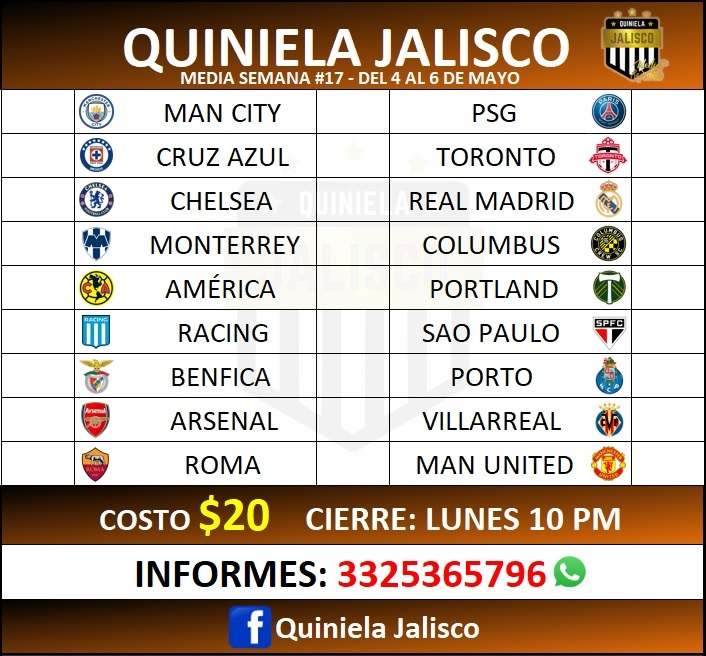
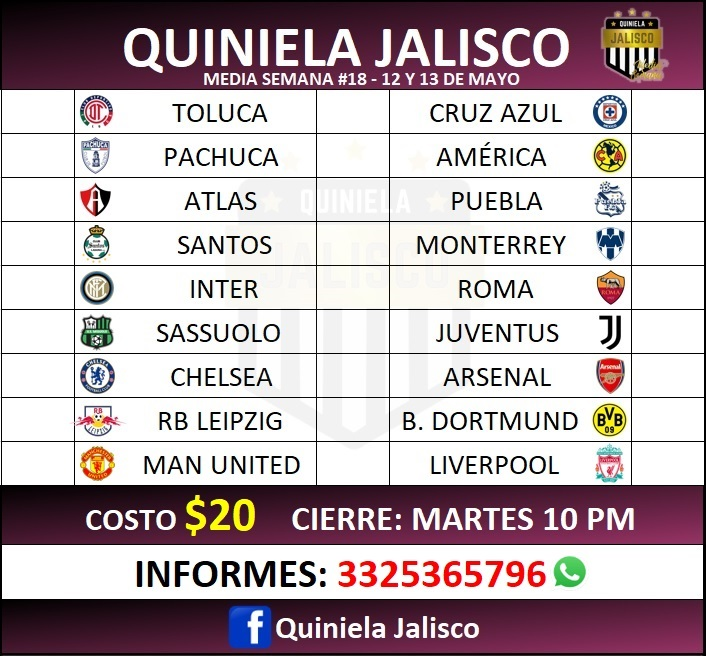
Media Semana #18

diff --git a/MediaSemana/stylesm.css b/MediaSemana/stylesm.css
@@ -85,12 +85,12 @@ h1{
     background-color: teal;
     text-align: center;
     padding: 18px;
-    color: rgb(255,255,22);
+    color: rgb(255,200,65);
     margin-top: 8%;
     border: solid 1px black;
     border-radius: 0 0 14px 14px;
-    background: -webkit-linear-gradient(0.04turn, rgb(0,0,0)  ,rgb(210,100,0) 80%);
-    background: linear-gradient(0.04turn, rgb(0,0,0)  ,rgb(210,100,0) 80%);
+    background: -webkit-linear-gradient(0.04turn, rgb(0,0,0)  ,rgb(142,51,95) 80%);
+    background: linear-gradient(0.04turn, rgb(0,0,0)  ,rgb(142,51,95) 80%);
     font-size: x-large;
 }
 
